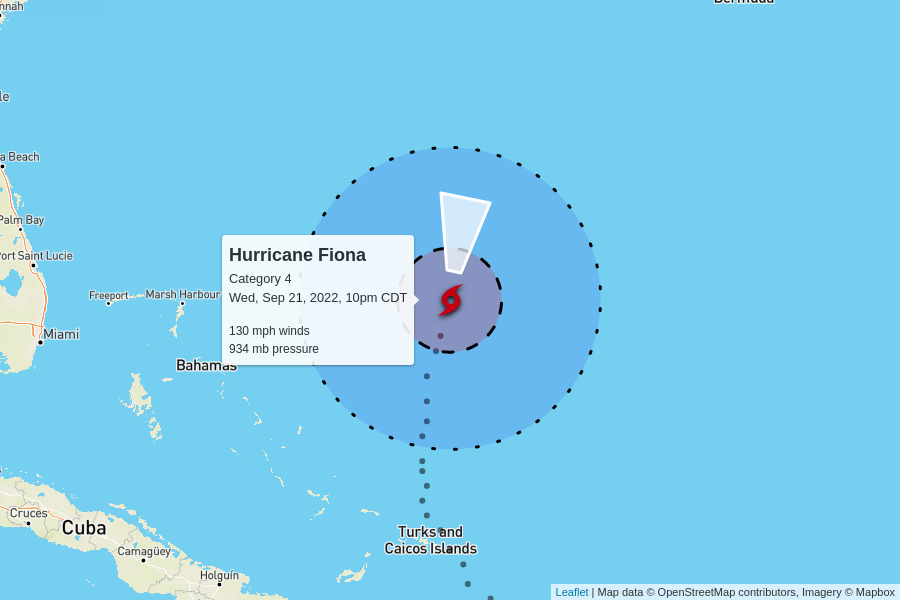
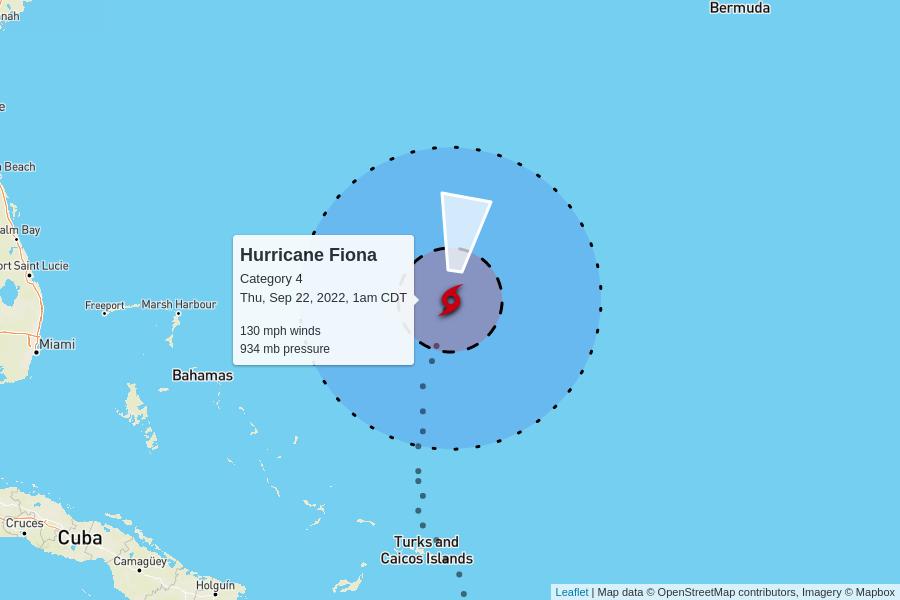
automatic update

diff --git a/docs/index.html b/docs/index.html
@@ -100,7 +100,7 @@
         <td colspan="6" class="storm category-4" >
           <h2>
             Hurricane Fiona - Category 4
-            <p class="updated">last updated <span data-time>2022-09-22T03:00:00.000Z</span></p>
+            <p class="updated">last updated <span data-time>2022-09-22T06:00:00.000Z</span></p>
           </h2>
         </td>
       </tr>
